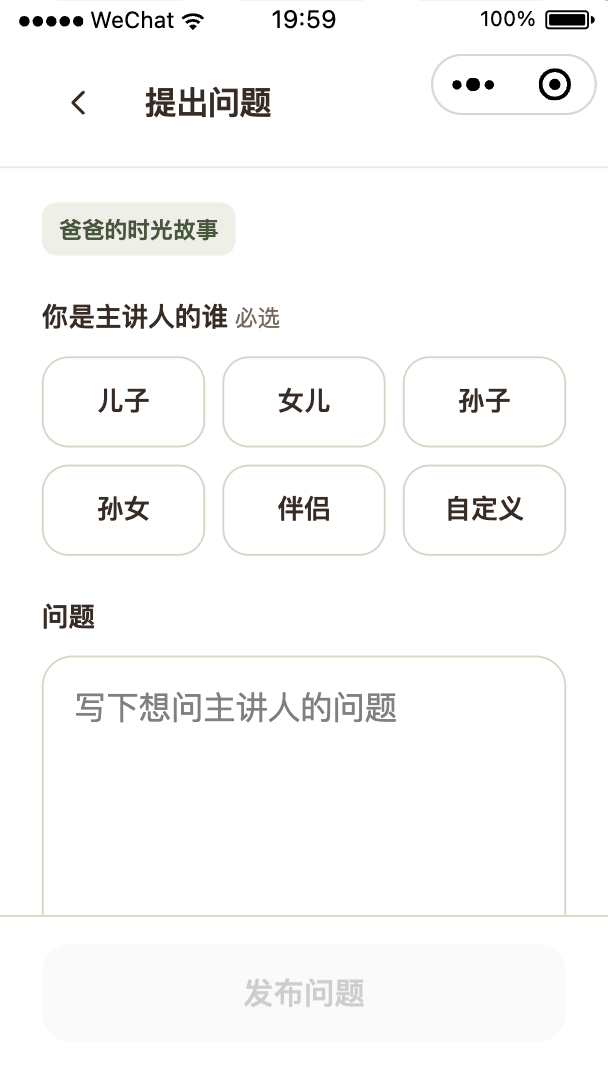
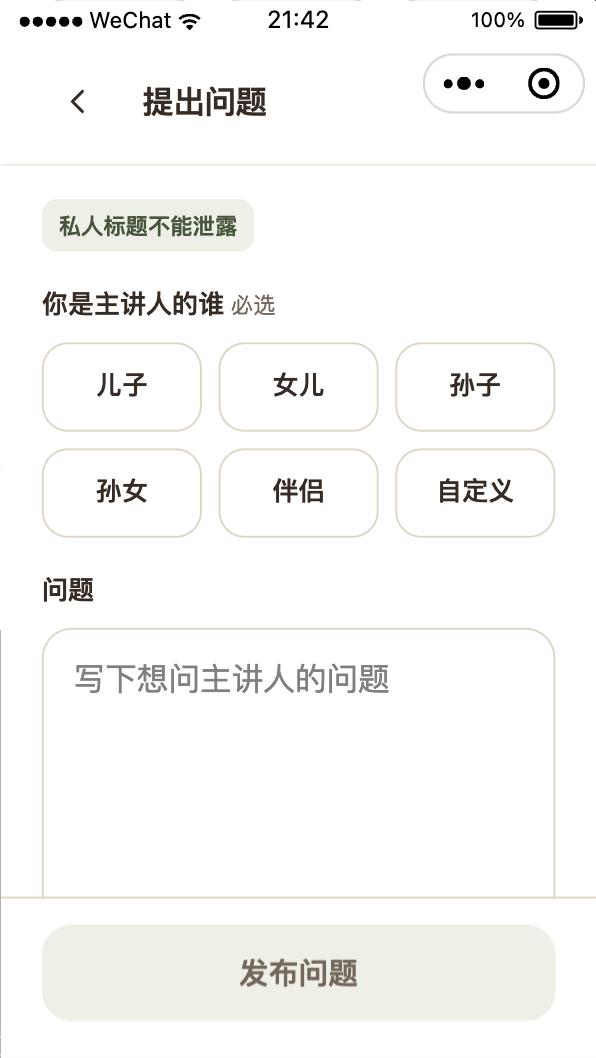
test(mp12): record native book and production flow at 320

diff --git a/docs/delivery/2026-11-11/miniprogram-refactor/MP11-delivery.md b/docs/delivery/2026-11-11/miniprogram-refactor/MP11-delivery.md
@@ -1,6 +1,6 @@
 # MP11 制作、收货地址与寄送状态
 
-范围：[#177](https://github.com/brycezhang/timenook/issues/177)。消费 MP10 的当前书稿、固定版本读取和系统 PDF 入口；沿用已付款套餐首本权益与运营人工履约。功能已实现，开发者工具 390px/320px 逐画板、键盘与真机验收由集成轮串行执行，当前不追认通过。
+范围：[#177](https://github.com/brycezhang/timenook/issues/177)。消费 MP10 的当前书稿、固定版本读取和系统 PDF 入口；沿用已付款套餐首本权益与运营人工履约。功能已实现，集成轮已完成下述 320px 原生提交与状态读取；390px、未知响应恢复和真机验收继续进行。
 
 实现提交 `5e5c799`；随后已合入集成 `662711c`（包含 `5733d92` 的 MP09/MP10 最终交付），合并提交 `a7148b6`，无冲突。合并后相关 17 项控制器、Frontend typecheck、正式构建与 37 页官方编译再次通过。
 
@@ -42,4 +42,15 @@
 
 数据库执行（在 `apps/api` 目录）：`node --env-file=../../.env --test --test-concurrency=2 --test-timeout=120000 dist-test/test/first-copy.test.js dist-test/test/fulfillment.test.js`。失败修正后按上述用例名称定向执行，未重复无影响的整套检查。
 
-未执行微信开发者工具可视走查、真机键盘/PDF、实际印厂交接、生产、物流或实物交付；未上传体验版、提审、部署或操作资金。
+真机键盘/PDF、实际印厂交接、生产、物流或实物交付仍待外部验收；未上传体验版、提审、部署或操作资金。
+
+## MP12 集成原生检查点（2026-11-12）
+
+正式 release 包 `74d7185` 的实际 320×568 窗口，真实本地 API／PostgreSQL／Redis，身份、支付、生产与物流状态均为明确合成夹具。[脱敏记录](evidence/MP12/native-book-print-320.json)和 [MP11/native 截图](evidence/MP11/native)记录以下结果：
+
+- 当前就绪 PDF → 去制作 → 地址：真实填写姓名、手机号、详细地址；用原生配送 picker 选择第一地区后保存。确认页从 API 读回新地址、V2 与 `canSubmit=true`。发现 picker 未选择时传入 `-1` 使原生滚轮先出现空项，已改为视觉默认第一项，页面未选占位和校验保留；修复后的首次确认待原生复验。
+- 实际点击提交后真实事务成功，进入制作页。首次单次响应丢失被开发者工具透明重试恢复，因此没有把该次记为 PrintUnknown；持久丢响应夹具与下一次真实未知状态查询仍待执行。
+- BookProduction／BookShipped／BookDelivered／BookCancelled 均从真实 API 状态采集。制作页实际点击「查看制作书稿」打开 `fixedProduction=true` 的预留 V1，即使可编辑版本已 obsolete，仍读取预留 PDF hash。寄出页实际复制物流单号成功；取消页实际点击查看当前书稿，回到当前概览。
+- BookAddress、BookPrintConfirm 与上述四个生产状态共六张 320 画板已采集。390、PrintUnknown、取消后实际重提和手机键盘继续待验；固定生产稿的 PDF 路径已在原生验证。
+
+上表保留初始验收清单；逐画板最新状态见 design-map。

diff --git a/docs/delivery/2026-11-11/miniprogram-refactor/MP10-delivery.md b/docs/delivery/2026-11-11/miniprogram-refactor/MP10-delivery.md
@@ -1,6 +1,6 @@
 # MP10 封面草稿、PDF 与固定版本原声
 
-范围：[#176](https://github.com/brycezhang/timenook/issues/176)，对应[模块票](tickets/MP10-book-pdf.md)。功能已实现；原生 390px/320px、微信文档查看器与手机扫码仍待验，不能将下述工程检查视为设备验收。
+范围：[#176](https://github.com/brycezhang/timenook/issues/176)，对应[模块票](tickets/MP10-book-pdf.md)。功能已实现，集成轮已完成下述 320px 原生路径；390px、尚未复验的交互及手机扫码分别待验。
 
 ## 可操作路径与接口
 
@@ -37,4 +37,15 @@
 | ReaderFailed | manuscript 实际下载／系统打开失败 | 390/320、重试打开和返回 |
 | OriginalAudio | 印刷版本原声码／固定 entryId | 390/320、原地登录、照片、播放暂停拖动、退出清理 |
 
-真实微信手机号授权、手机扫码规则、系统 PDF 查看器外壳、iOS/Android 播放和文件清理、实际 OSS 与录音供应商、纸质二维码及印厂制作均另验。本票未操作 DevTools 窗口、未上传体验版、提审、部署、真实付款或生产。
+真实微信手机号授权、手机扫码规则、手机系统 PDF 查看器外壳、iOS/Android 播放和文件清理、实际 OSS 与录音供应商、纸质二维码及印厂制作均另验。未上传体验版、提审、部署、真实付款或生产。
+
+## MP12 集成原生检查点（2026-11-12）
+
+正式 37 页 release 包 `74d7185`，仅临时副本 API 指向真实本地服务。实际窗口为 320×568；[检查记录](evidence/MP12/native-book-print-320.json)保留 PDF hash 与已观察结果，截图位于 [MP10/native](evidence/MP10/native)。身份、支付、AI 与存储供应商仍是明确合成夹具。
+
+- 首页封面 → 空书稿／就绪概览 → 预览 → 实际下载 PDF。`wx.openDocument` 返回成功，WPS 打开相同本地文件名，显示四页、正确中文封面／寄语、红色合成照片和目录／故事缩略图，且显示「未上云」。这是开发者工具调用与实际内容的关联证据；手机查看器外壳另验，不制作假的 320/390 系统页面截图。
+- 仅注入外部文档查看器失败后，实际点击产生 ReaderFailed；恢复真实 `wx.openDocument` 后点击重新打开，页面错误清除并成功打开。
+- 封面实际输入书名／寄语，进入选图页选择不用照片，返回后草稿保留；保存后 API 回读两字段与照片为空均一致。再次编辑未保存书名，真实退出提示确认后回读仍为已保存标题。选图返回出现多余离开提示，已交由修复轮处理；带照片往返仍待修复后原生复验。
+- BookChanged、BookEmpty、BookOverview、BookCover、BookReader、ReaderFailed、OriginalAudio 均已采集 320。真实 PDF 失败重试已恢复就绪，但失败页新增重试图标后的截图待复采；原声页面已读取冻结版本与真实时长，长音频暂停／拖动继续待验。
+
+上表的待验列为初始验收清单；最新逐画板状态以 design-map 为准。390、封面修复复验、原声完整播放操作继续进行。

diff --git a/docs/delivery/2026-11-11/miniprogram-refactor/MP12-delivery.md b/docs/delivery/2026-11-11/miniprogram-refactor/MP12-delivery.md
@@ -33,4 +33,6 @@ node scripts/test-native-design.cjs family
 
 `stories` 复用已保存故事，`cover` 复用当前书稿；`capture <board> <actual-entry> <observed-interaction>` 只采集当前原生画面。实际操作时分别将 DevTools 内容宽度切到 390 与 320，脚本读取并校验 `wx.getWindowInfo()`，不通过改页面数据伪造尺寸或状态。失败/录音/PDF 查看器/制作状态继续使用各模块既有 provider fixture 和真实状态流进入，不能直接设置业务页面数据。
 
-剩余：录音/成书/制作跨模块走查、71 张画板缺失的 390/320 原生证据、必要整仓 CI。真机手机号授权、实际录音和供应商、支付资金、微信分享、扫码、印厂与实物验收各自独立。集成分支与 [PR #179](https://github.com/brycezhang/timenook/pull/179) 已由集成负责人推送；未部署或上传。
+当前已完成录音 320 真实上传／丢响应重试、书稿 320 实际 PDF 打开及地址保存／提交／生产状态读取；详见各票记录及[本轮书稿制作检查点](evidence/MP12/native-book-print-320.json)。实际拖动发现 sort-list 最后一次异步坐标查询被 touchend 提前清空，尚未成功保存顺序；封面照片返回的多余离开提示也已转修复轮，均待原生复验。
+
+剩余：71 张画板缺失的 390/320 原生证据、上述修复复验、长原声拖动与未知制作响应恢复。真机手机号授权、实际录音和供应商、支付资金、微信分享、扫码、印厂与实物验收各自独立。集成分支与 [PR #179](https://github.com/brycezhang/timenook/pull/179) 已由集成负责人推送；未部署或上传。

diff --git a/docs/delivery/2026-11-11/miniprogram-refactor/MP06-delivery.md b/docs/delivery/2026-11-11/miniprogram-refactor/MP06-delivery.md
@@ -52,4 +52,4 @@
 - 原生发现禁用按钮被微信默认规则覆盖为灰色，已增加共享样式选择器权重；390px 实测背景 `rgb(237, 240, 231)`、文字 `rgb(117, 104, 89)`、opacity 1。当前 320px 新问题截图在修复前采集，保留为待复采，未记作修复后通过。
 - 仍待：真机键盘/选章及真实录音供应商。本记录不代表实际微信身份、支付或设备录音验收。
 
-320px 紧凑间距级联修正后，HomeActive、FamilyQuestions、FamilyQuestionDetail、FamilyQuestionAnswered 已复采。真实输入并发布 110 字问题（不选章节），详情可滚动至完整末尾；长问题截图为补充，不增加 71 画板计数。短屏滚动后的官方截图偶发漏采固定底栏，未修改图像；首屏保留实际底栏。HomeEmpty、FamilyQuestionsEmpty 与首次关系表单的最新复采继续见 design-map 待验项。
+320px 紧凑间距级联修正后，七张画板均已复采。真实输入并发布 110 字问题（不选章节），详情可滚动至完整末尾；长问题截图为补充，不增加 71 画板计数。短屏滚动后的官方截图偶发漏采固定底栏，未修改图像；首屏保留实际底栏。2026-11-12 用新的真实空项目补采 HomeEmpty、FamilyQuestionsEmpty 与首次关系表单，禁用发布按钮保持浅橄榄色；实际选择「女儿」、输入问题并发布，成功进入新问题详情。
